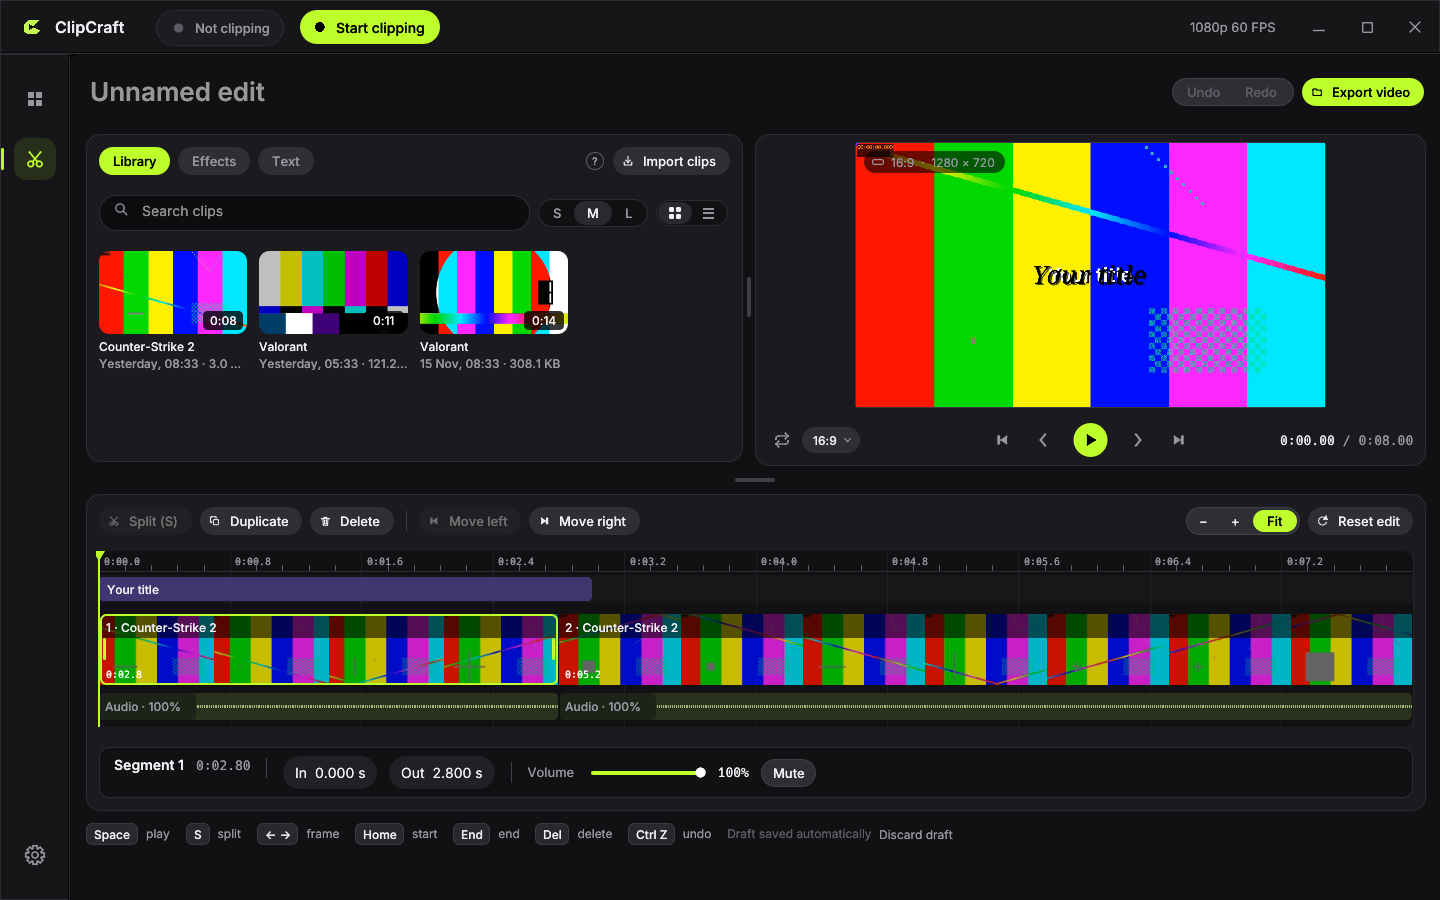
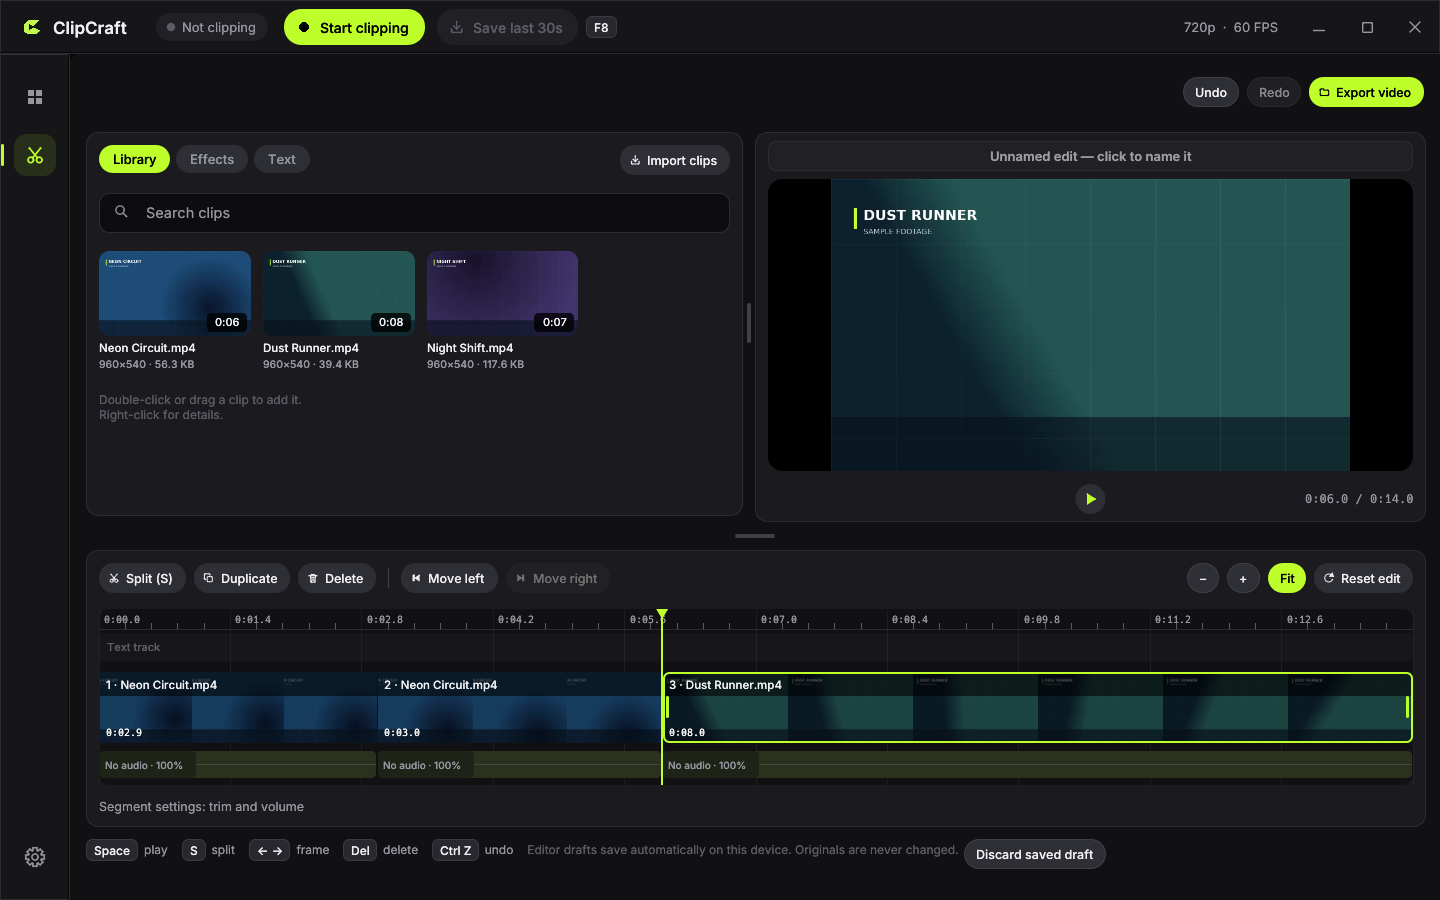
README: back to the original screenshots for now
Claude-Session: https://claude.ai/code/session_01RDvxCSZhPZeiSHhNvQFkav

diff --git a/ATTRIBUTION.md b/ATTRIBUTION.md
@@ -14,9 +14,9 @@ See [ADR 0022](docs/adr/0022-local-game-state.md) for the narrowly scoped trust 
 
 | Asset | Source | License / attribution |
 | --- | --- | --- |
-| `docs/screenshots/library.png` | ClipCraft (November 2026 development version) captured by contributors with original generated sample footage | MIT; interface text uses Inter under SIL OFL 1.1 |
-| `docs/screenshots/editor.png` | ClipCraft (November 2026 development version) captured by contributors with original generated sample footage | MIT; interface text uses Inter under SIL OFL 1.1 |
-| `docs/screenshots/capture-settings.png` | ClipCraft (November 2026 development version) captured by contributors on a private Linux display | MIT; interface text uses Inter under SIL OFL 1.1 |
+| `docs/screenshots/library.png` | ClipCraft 0.2.0 captured by contributors with original generated sample footage | MIT; interface text uses Inter under SIL OFL 1.1 |
+| `docs/screenshots/editor.png` | ClipCraft 0.2.0 captured by contributors with original generated sample footage | MIT; interface text uses Inter under SIL OFL 1.1 |
+| `docs/screenshots/capture-settings.png` | ClipCraft 0.2.0 captured by contributors on a private Linux display | MIT; interface text uses Inter under SIL OFL 1.1 |
 | `assets/brand/mark-lime.svg` | Original ClipCraft CUT geometry, developed from the maintainer-selected AI-assisted concept A; ClipCraft contributors | MIT; no third-party artwork or embedded font |
 | `assets/brand/mark-black.svg` | Same original CUT geometry, charcoal variant | MIT |
 | `assets/brand/mark-white.svg` | Same original CUT geometry, paper variant | MIT |

diff --git a/docs/screenshots/editor.png.license.md b/docs/screenshots/editor.png.license.md
@@ -1,5 +1,5 @@
 # Screenshot provenance
 
-- Source: ClipCraft (the current development version, November 2026) running on a private Linux virtual display with software rendering, captured by ClipCraft contributors.
-- Media shown: original, fictional sample footage (generated test patterns); no game footage or user media.
+- Source: ClipCraft 0.2.0 running on a private Linux virtual display, captured by ClipCraft contributors.
+- Media shown: original, fictional sample footage generated for this screenshot; no game footage or user media.
 - License: MIT (ClipCraft project license). The interface uses the Inter font under the SIL Open Font License 1.1; see `assets/fonts/OFL-Inter.md`.

diff --git a/docs/screenshots/library.png.license.md b/docs/screenshots/library.png.license.md
@@ -1,5 +1,5 @@
 # Screenshot provenance
 
-- Source: ClipCraft (the current development version, November 2026) running on a private Linux virtual display with software rendering, captured by ClipCraft contributors.
-- Media shown: original, fictional sample footage (generated test patterns); no game footage or user media.
+- Source: ClipCraft 0.2.0 running on a private Linux virtual display, captured by ClipCraft contributors.
+- Media shown: original, fictional sample footage generated for this screenshot; no game footage or user media.
 - License: MIT (ClipCraft project license). The interface uses the Inter font under the SIL Open Font License 1.1; see `assets/fonts/OFL-Inter.md`.

diff --git a/docs/screenshots/capture-settings.png.license.md b/docs/screenshots/capture-settings.png.license.md
@@ -1,5 +1,5 @@
 # Screenshot provenance
 
-- Source: ClipCraft (the current development version, November 2026) running on a private Linux virtual display with software rendering, captured by ClipCraft contributors.
-- Media shown: original, fictional sample footage (generated test patterns); no game footage or user media.
+- Source: ClipCraft 0.2.0 running on a private Linux virtual display, captured by ClipCraft contributors.
+- Media shown: no game footage, clips, or user media.
 - License: MIT (ClipCraft project license). The interface uses the Inter font under the SIL Open Font License 1.1; see `assets/fonts/OFL-Inter.md`.

diff --git a/README.md b/README.md
@@ -47,16 +47,8 @@ never goes online if you turn that off.
 
 ## Screenshots
 
-**Clips:** search, favorites, collections, a heading for each day.
-
 ![The clip library](docs/screenshots/library.png)
-
-**Editor:** split on the timeline, add text, pick a picture shape, export.
-
 ![The editor](docs/screenshots/editor.png)
-
-**Settings:** choose what to record and how.
-
 ![Capture settings](docs/screenshots/capture-settings.png)
 
 ## Build and run
